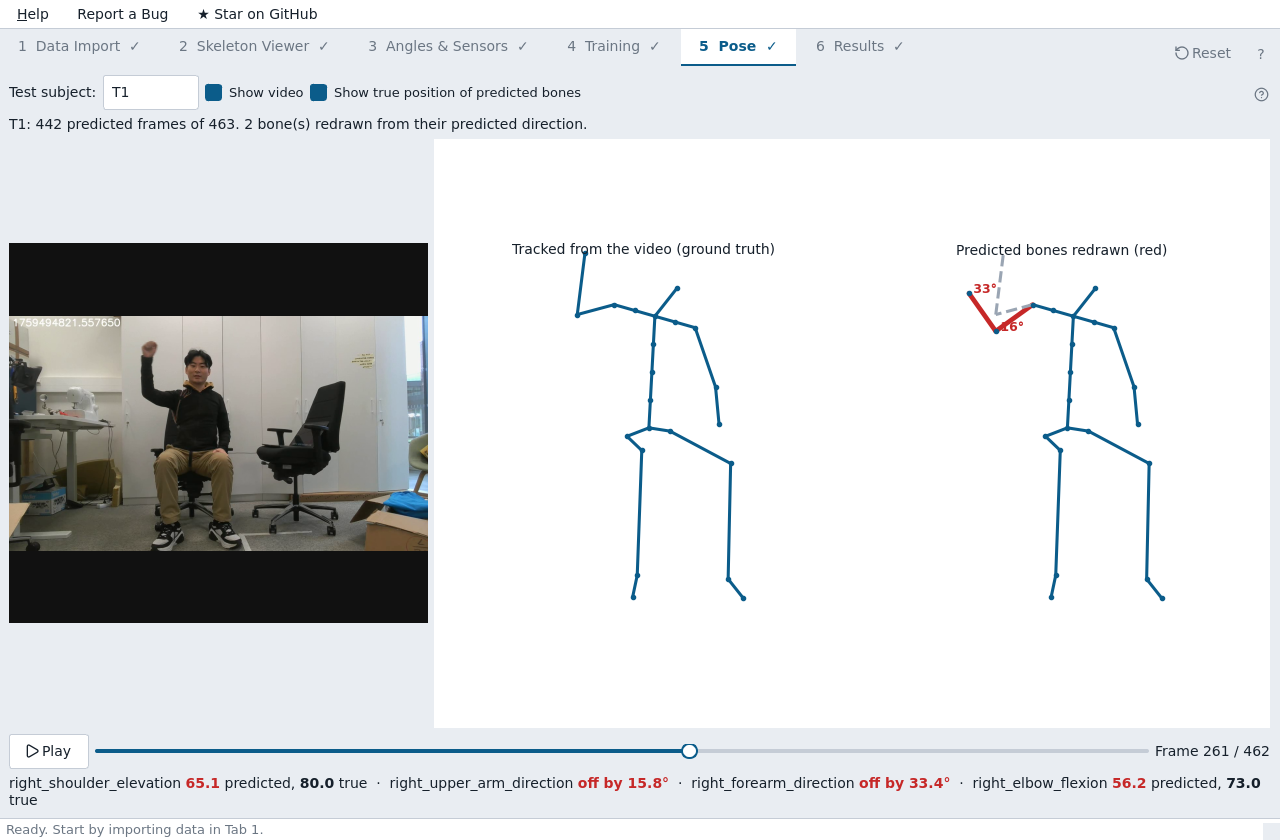
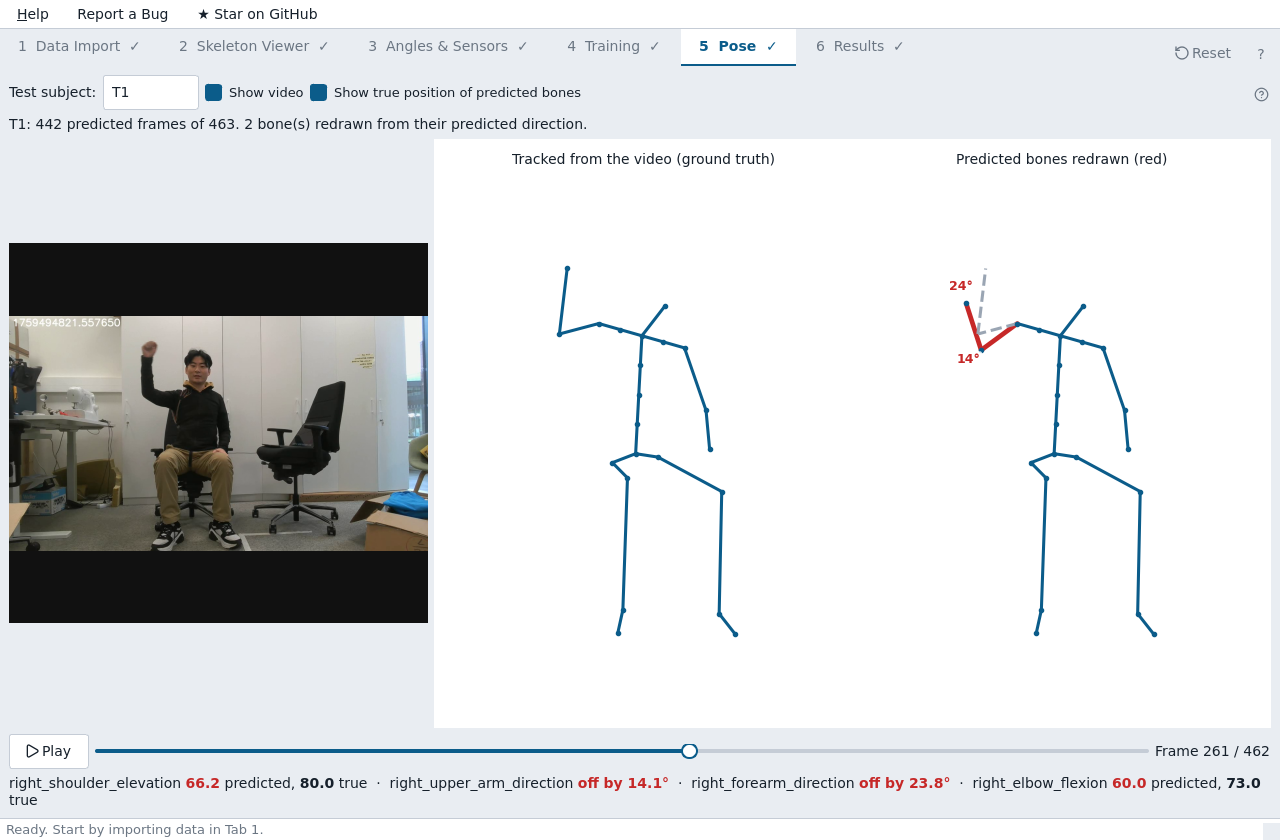
Pose tab: frame the whole body, keep error labels off the bones
The skeletons now fill their half of the canvas: the view is centred on the
space the body takes up over the recording rather than on the pelvis, so a
seated person and an arm overhead both stay in view, and the titles sit
above the axes. Error labels are placed a little past the end of each bone,
on a white backing. The canvas fills its background first, so the column
the rendered image does not cover is blank.

diff --git a/gui/panels/pose_comparison.py b/gui/panels/pose_comparison.py
@@ -87,11 +87,21 @@ class PoseComparisonPanel(QWidget):
         row = QHBoxLayout()
         row.addWidget(video, stretch=3)
         self.fig = Figure(figsize=(9, 4.6))
-        self.ax_true = self.fig.add_subplot(121, projection='3d')
-        self.ax_pred = self.fig.add_subplot(122, projection='3d')
-        self.fig.subplots_adjust(left=0, right=1, bottom=0, top=1, wspace=0)
+        # each skeleton gets exactly half the canvas, edge to edge: mplot3d's
+        # default margins left them small in a sea of white
+        self.ax_true = self.fig.add_axes([0.0, 0.0, 0.5, 0.93], projection='3d')
+        self.ax_pred = self.fig.add_axes([0.5, 0.0, 0.5, 0.93], projection='3d')
+        # titles above the axes, where no bone can reach them
+        self.fig.text(0.25, 0.965, "Tracked from the video (ground truth)",
+                      ha='center', va='center', fontsize=10, color=design.TEXT)
+        self.fig.text(0.75, 0.965, "Predicted bones redrawn (red)",
+                      ha='center', va='center', fontsize=10, color=design.TEXT)
         self.canvas = FigureCanvas(self.fig)
         self.canvas.setMinimumHeight(380)
+        # The rendered image can come out a pixel narrower than the widget;
+        # fill the widget first so that column is blank, not a stale smear.
+        self.canvas.setAutoFillBackground(True)
+        self.canvas.setStyleSheet(f"background-color: {design.SURFACE};")
         row.addWidget(self.canvas, stretch=6)
         layout.addLayout(row, stretch=1)
         layout.addWidget(self.scrubber)
@@ -106,13 +116,11 @@ class PoseComparisonPanel(QWidget):
         self._reset_axes()
 
     def _reset_axes(self):
-        for ax, title in ((self.ax_true, "Tracked from the video (ground truth)"),
-                          (self.ax_pred, "Predicted bones redrawn (red)")):
+        for ax in (self.ax_true, self.ax_pred):
             ax.clear()
             style_3d_axes(ax)
             ax.set_axis_off()            # the body is the reference; boxes only clutter
-            ax.set_title(title, fontsize=10, y=0.98)
-            ax.set_box_aspect((1, 1, 1), zoom=1.35)
+            ax.set_box_aspect((1, 1, 1), zoom=1.7)
             ax.view_init(elev=10, azim=70)
 
     # --- tab life cycle ------------------------------------------------------
@@ -208,12 +216,22 @@ class PoseComparisonPanel(QWidget):
             else:
                 readout.append((name, 'val', (pred[idx, sl.start], truth[idx, sl.start])))
 
-        height = np.nanmedian(np.linalg.norm(joints[:, 15] - (joints[:, 7] + joints[:, 8]) / 2,
-                                             axis=1))
+        # Frame the body, not the pelvis: a seated person's pelvis sits low,
+        # and an arm raised overhead must stay in view. The box is the space
+        # the body (and the redrawn bones) take up over the whole recording,
+        # held fixed so the view does not breathe from frame to frame.
+        tracked = joints[np.isfinite(joints).all(axis=(1, 2))]
+        both = np.concatenate([tracked, recon]) if len(tracked) else recon
+        rel = both - both[:, :1]                         # relative to the pelvis
+        lo, hi = np.nanpercentile(rel.min(axis=1), 2, axis=0), \
+            np.nanpercentile(rel.max(axis=1), 98, axis=0)
+        offset = (lo + hi) / 2
+        half = 0.55 * float(np.max(hi - lo))
         self._data = {
             'sid': sid, 'joints': joints, 'recon': recon, 'owner': owner,
             'sample_frames': frames[idx], 'bones': set(dirs), 'readout': readout,
-            'extent': 0.6 * (height if np.isfinite(height) and height > 0.3 else 1.6),
+            'offset': offset,
+            'extent': half if np.isfinite(half) and half > 0.2 else 1.0,
         }
         self._build_artists()
         n_dir = len(dirs)
@@ -243,8 +261,10 @@ class PoseComparisonPanel(QWidget):
         for bone in d['bones']:
             a, b = BONES[bone][1], BONES[bone][2]
             art['ghost'][bone], = self.ax_pred.plot([], [], [], color=GHOST, lw=2.2, ls='--')
-            art['err'][bone] = self.ax_pred.text(0, 0, 0, "", color=PRED, fontsize=9,
-                                                 fontweight='bold')
+            art['err'][bone] = self.ax_pred.text(
+                0, 0, 0, "", color=PRED, fontsize=9, fontweight='bold',
+                ha='center', va='center',
+                bbox=dict(boxstyle='round,pad=0.15', fc='white', ec='none', alpha=0.85))
         art['pts_true'] = self.ax_true.plot([], [], [], 'o', ms=3, color=TRUE)[0]
         art['pts_pred'] = self.ax_pred.plot([], [], [], 'o', ms=3, color=TRUE)[0]
         art['none'] = self.ax_pred.text2D(0.5, 0.04, "", transform=self.ax_pred.transAxes,
@@ -264,7 +284,8 @@ class PoseComparisonPanel(QWidget):
         have_true = np.isfinite(true).all()
         recon = d['recon'][s] if s >= 0 else (true if have_true else None)
 
-        centre = true[0] if have_true else (recon[0] if recon is not None else np.zeros(3))
+        pelvis = true[0] if have_true else (recon[0] if recon is not None else np.zeros(3))
+        centre = pelvis + d['offset']
         e = d['extent']
         cx, cy, cz = _xyz(centre)
         for ax in (self.ax_true, self.ax_pred):
@@ -300,10 +321,14 @@ class PoseComparisonPanel(QWidget):
                 line.set_data_3d(*_xyz(true[[a, b]]))   # where the bone really was
             else:
                 line.set_data_3d([], [], [])
-            x, y, z = _xyz(recon[b])
+            # just past the end of the bone, along it, so the number never
+            # sits on the bone or on the joint where two labels meet
+            vec = recon[b] - recon[a]
+            tip = recon[b] + 0.35 * vec
+            x, y, z = _xyz(tip)
             text.set_position((x[0], y[0]))
             text.set_3d_properties(z[0], None)
-            text.set_text(f" {errs[BONES[bone][3]][s]:.0f}°")
+            text.set_text(f"{errs[BONES[bone][3]][s]:.0f}°")
         art['none'].set_text("" if s >= 0 else
                              "No prediction at this frame: outside the time both "
                              "streams cover, or within the first sequence-length "

diff --git a/tests/test_pose.py b/tests/test_pose.py
@@ -219,7 +219,7 @@ def test_the_predicted_bone_is_redrawn_and_the_rest_copied():
     assert np.allclose(seg(art['pred'], (2, 5)), seg(art['true'], (2, 5))), "legs copied"
     assert "off by 20.0" in p.values_label.text(), p.values_label.text()
     assert "predicted" in p.values_label.text() and "right_elbow_flexion" in p.values_label.text()
-    assert art['err']['right_upper_arm'].get_text().strip() == "20°"
+    assert art['err']['right_upper_arm'].get_text() == "20°"
 
 
 def test_turning_one_skeleton_turns_the_other():
